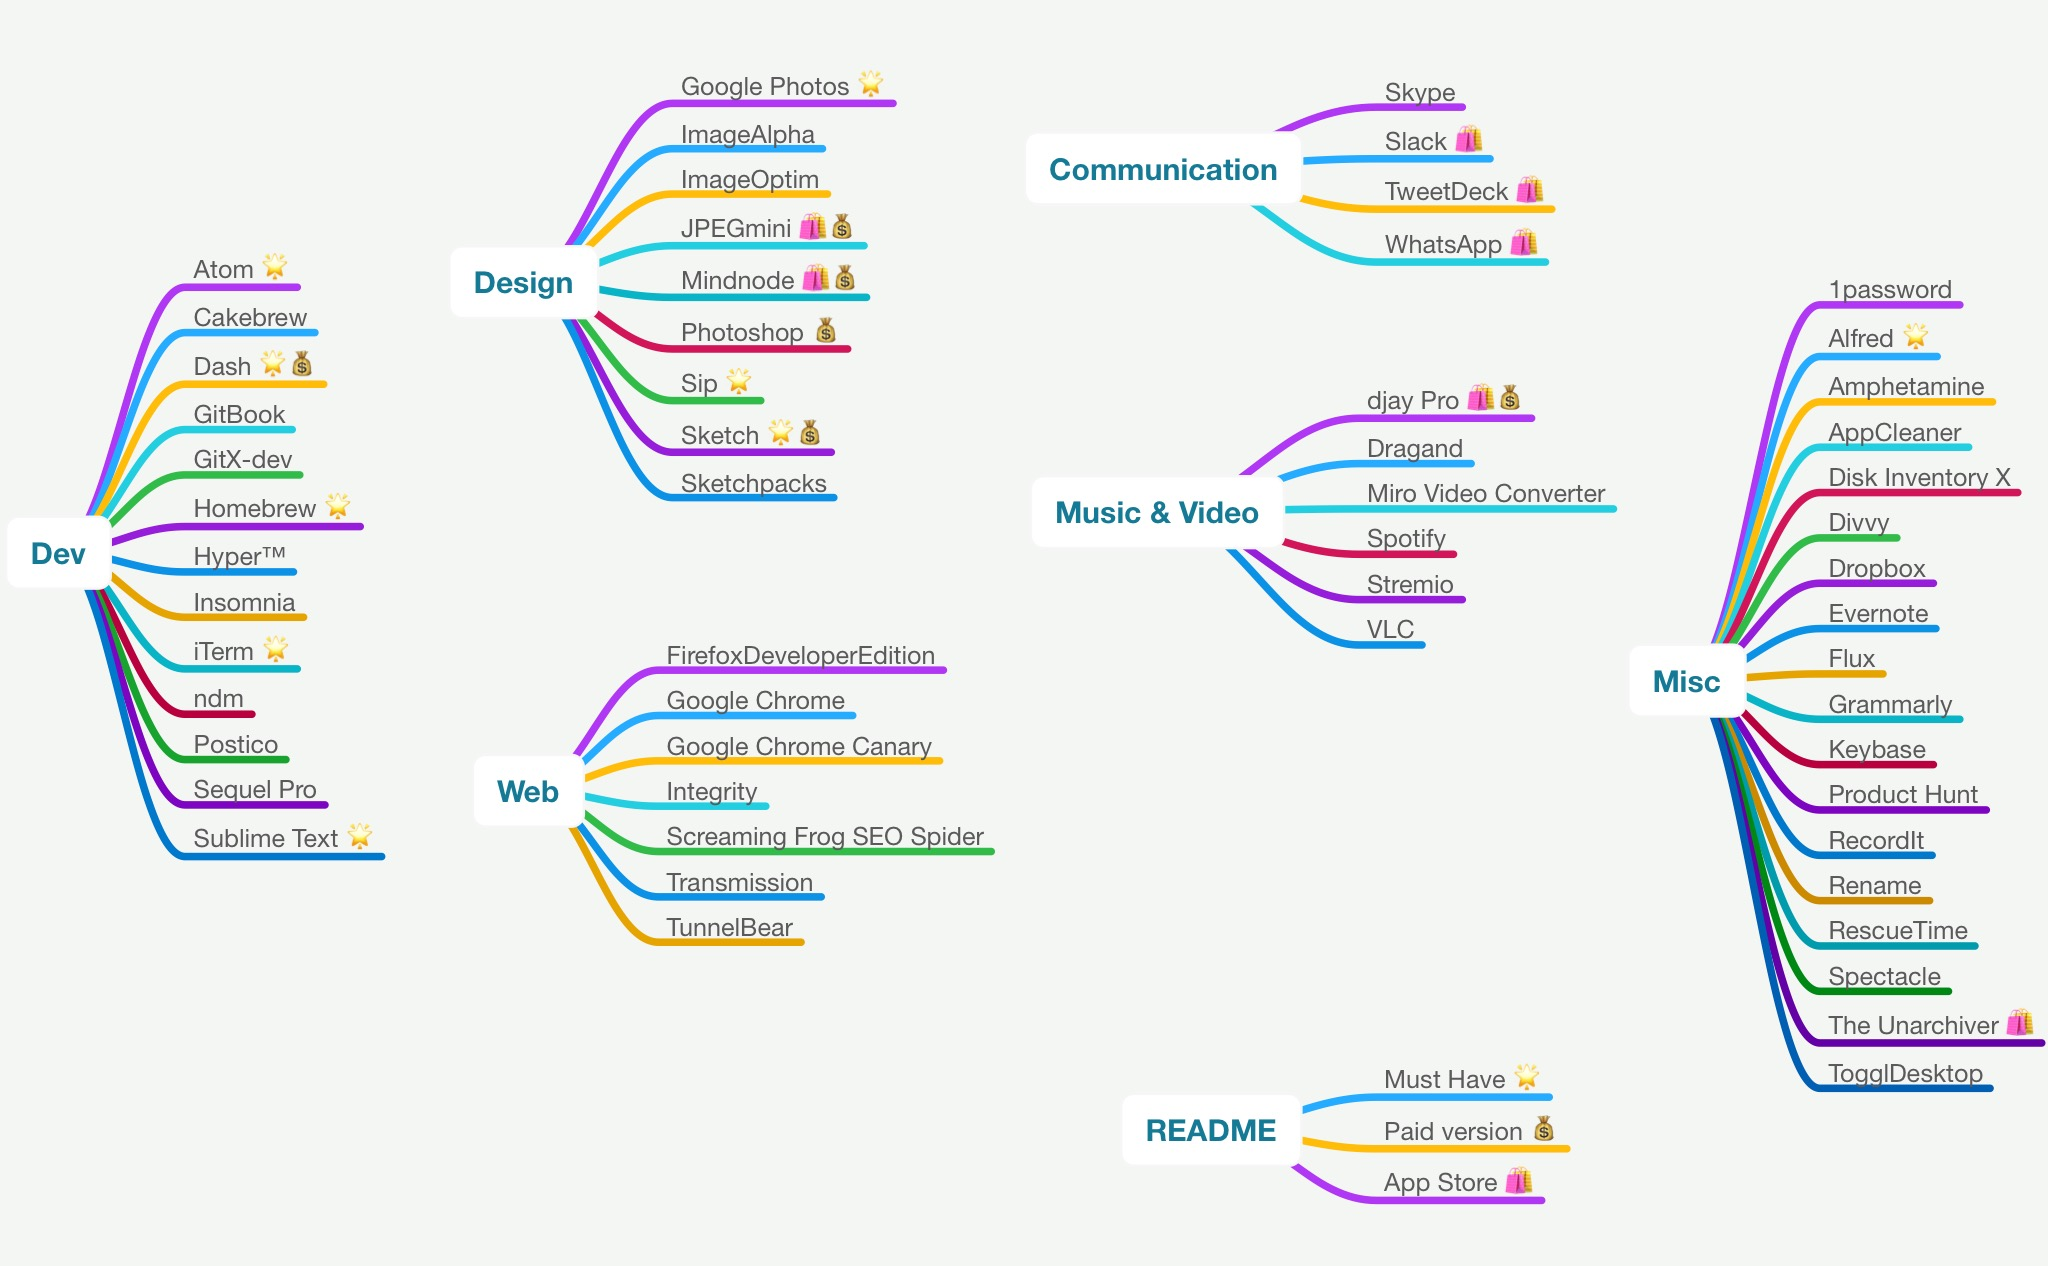
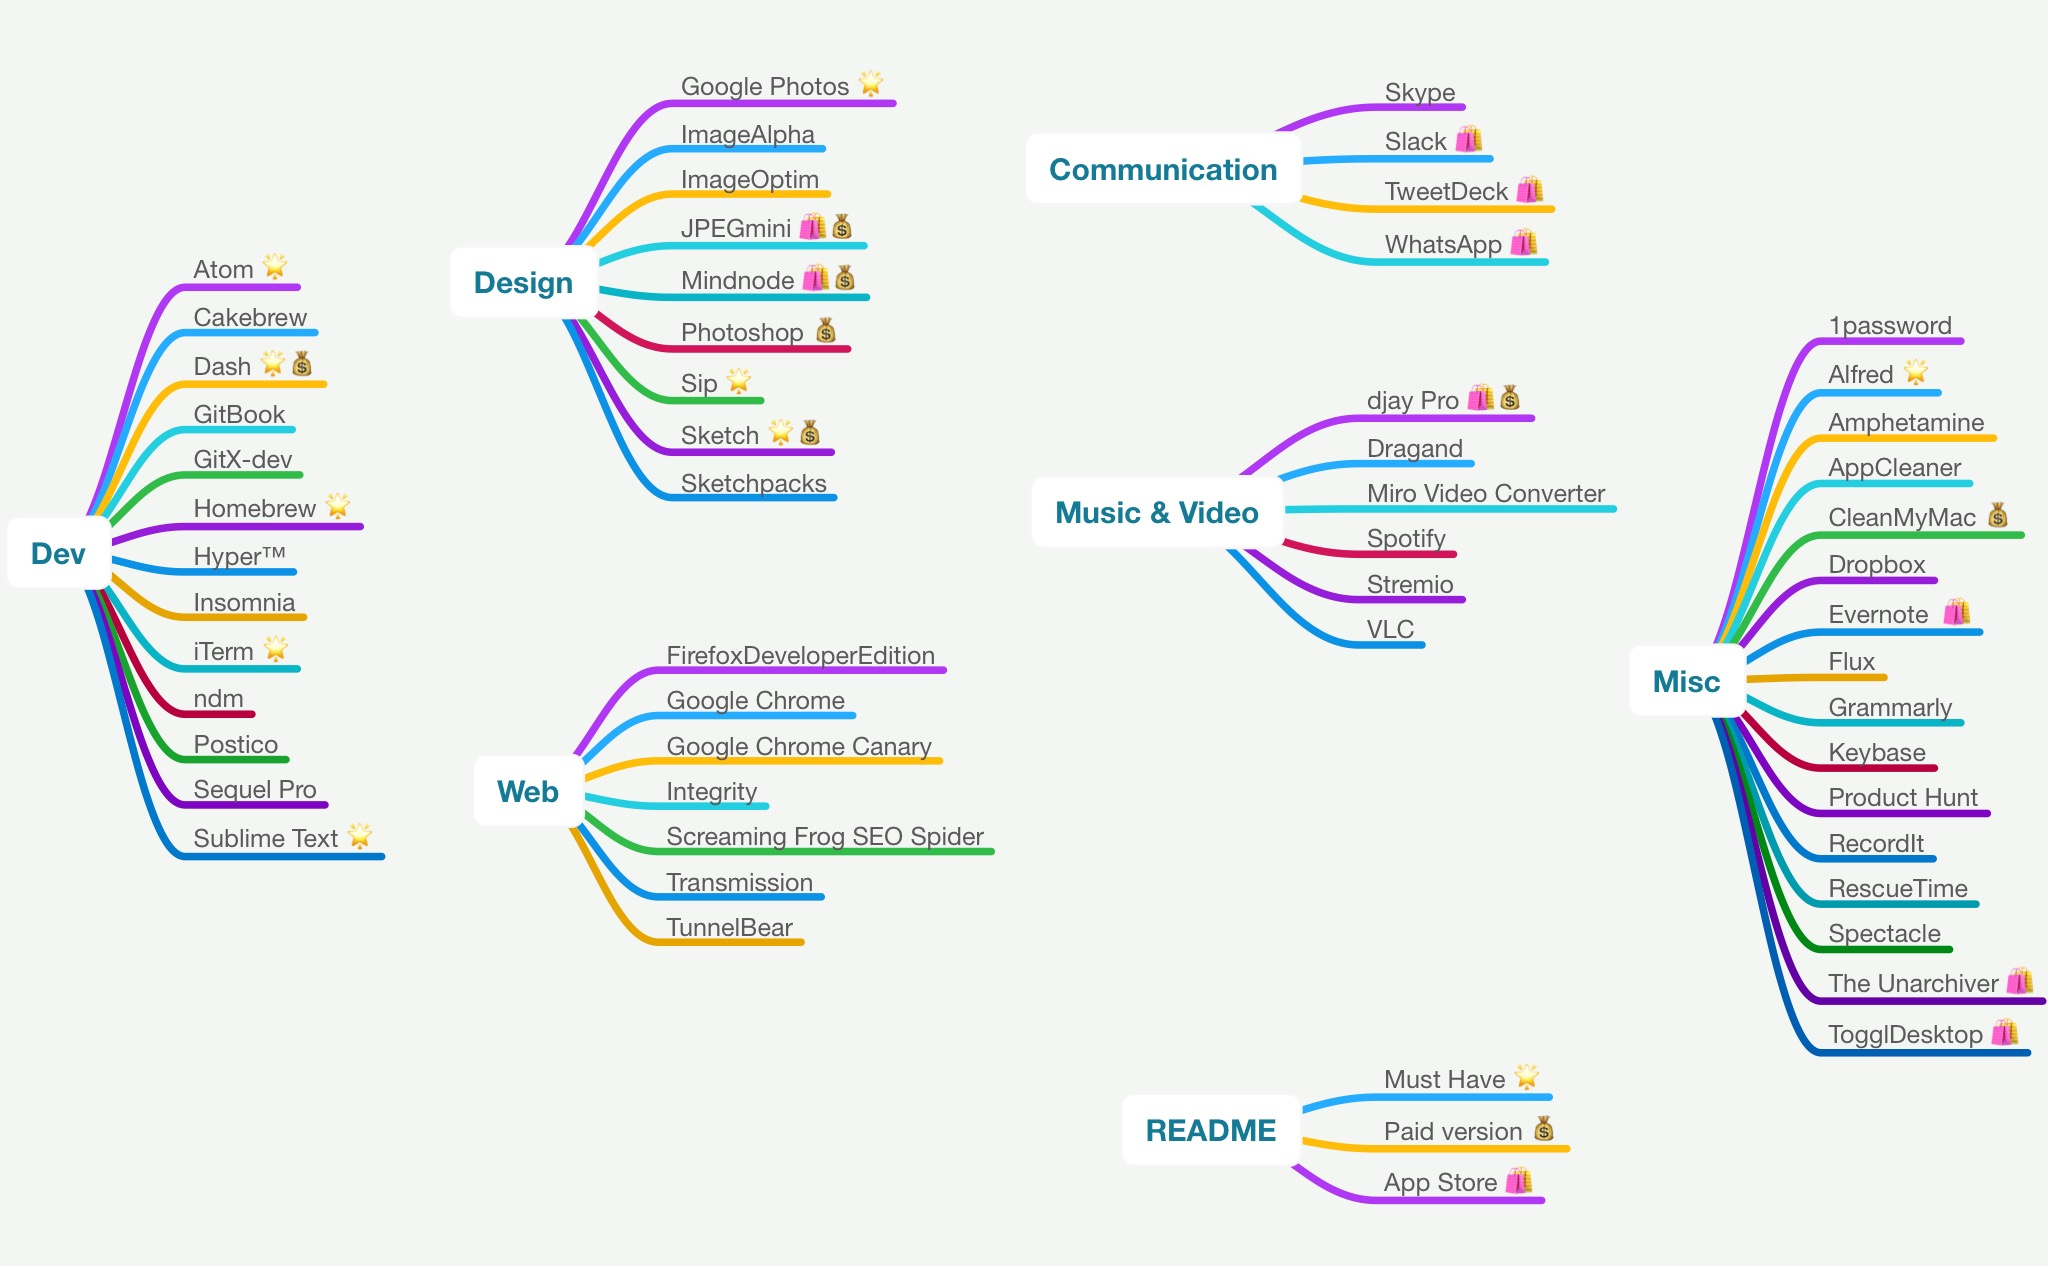
:crystal_ball:

Changed region(s): [[0.8125, 0.2156, 1.0, 0.8626]]

diff --git a/README.md b/README.md
@@ -6,6 +6,10 @@ Here is the list of all the apps I use to be efficient as a __front-end develope
 
 [![](macos-front-end.mindnode/QuickLook/Preview.jpg)](https://my.mindnode.com/zRQUDVrKyQGW2TxZ33k8szsZEynEsaoKHeLWx2XB)
 
+- Must Have 🌟
+- Paid version 💰
+- App Store 🛍
+
 ## Dev
 
 - __[Atom 🌟](https://atom.io/)__ – The hackable text editor for the 21st Century. It's slow but the comminity is awesome.
@@ -62,21 +66,19 @@ Here is the list of all the apps I use to be efficient as a __front-end develope
 
 ## Misc
 
-- 1password
-- Alfred 🌟
-- Amphetamine
-- AppCleaner
-- CleanMyMac
-- Divvy
-- Dropbox
-- Evernote
-- Flux
-- Grammarly
-- Keybase
-- [Product Hunt](https://github.com/producthunt/producthunt-osx/) Discover your next favorite thing, surfacing the latest in tech, books, games, and podcasts.
-- RecordIt
-- Rename
-- RescueTime
-- [Spectacle](https://github.com/eczarny/spectacle) Organize your windows without using a mouse.
-- [The Unarchiver 🛍](https://itunes.apple.com/us/app/the-unarchiver/id425424353?mt=12)
-- TogglDesktop
+- __[1password 🛍💰](https://itunes.apple.com/fr/app/1password-password-manager-and-secure-wallet/id443987910?l=en&mt=12)__ – Forget your passwords. 1Password remembers them all for you.
+- __[Alfred 🌟💰](https://www.alfredapp.com/)__ – Productivity app for macOS
+- __[Amphetamine 🛍](https://itunes.apple.com/fr/app/amphetamine/id937984704?l=en&mt=12)__ – Keep your mac awake.
+- __[AppCleaner](https://freemacsoft.net/appcleaner/)__ – AppCleaner finds unnecessarily files and safely deletes them.
+- __[CleanMyMac 💰](https://cleanmymac.com/)__ – The world's best Mac cleaner.
+- __[Dropbox](https://www.dropbox.com/downloading)__ – Keeps your files and your team in sync.
+- __[Evernote 🛍](https://itunes.apple.com/fr/app/evernote-stay-organized/id406056744?l=en&mt=12)__ – With Evernote on your desktop and mobile devices, your notes are always with you and always in sync.
+- __[Flux](https://justgetflux.com/)__ – Warms up your computer display at night, to match your indoor lighting.
+- __[Grammarly](https://grammarly.com)__ – Free grammar checker instantly eliminates grammatical errors and enhances your writing.
+- __[Keybase](https://keybase.io/)__ – Public key crypto for everyone, publicly auditable proofs of identity.
+- __[Product Hunt](https://github.com/producthunt/producthunt-osx/)__ – Discover your next favorite thing, surfacing the latest in tech, books, games, and podcasts.
+- __[RecordIt](http://recordit.co/)__ – Record screencasts fast & free! with GIF Support!
+- __[RescueTime](https://www.rescuetime.com)__ – Time management software.
+- __[Spectacle](https://github.com/eczarny/spectacle)__ – Organize your windows without using a mouse.
+- __[The Unarchiver 🛍](https://itunes.apple.com/us/app/the-unarchiver/id425424353?mt=12)__ – Free Unarchiving Software for macOS
+- __[TogglDesktop 🛍](https://itunes.apple.com/fr/app/toggl-desktop/id957734279?l=en&mt=12)__ – Descktop app for online time tracking.
